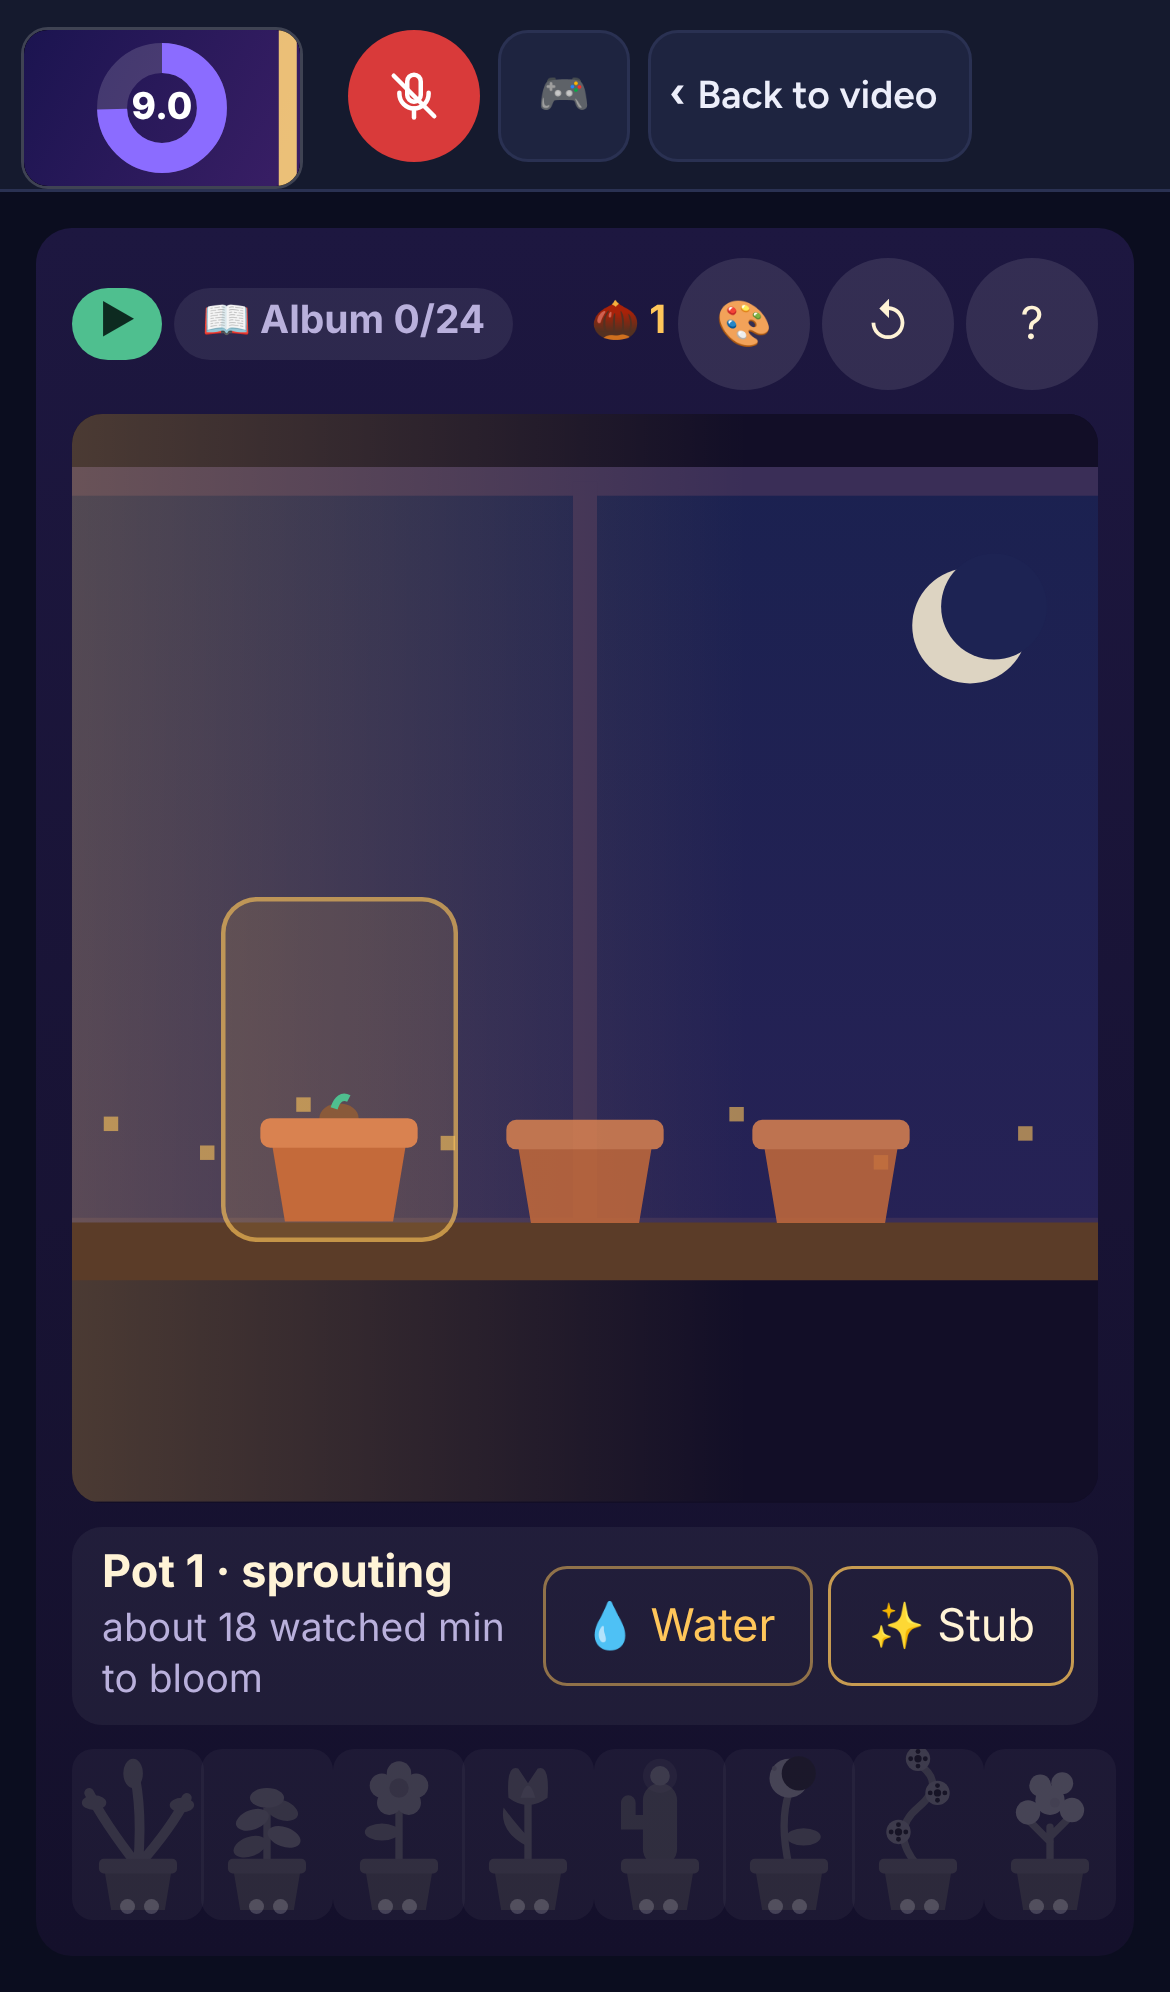
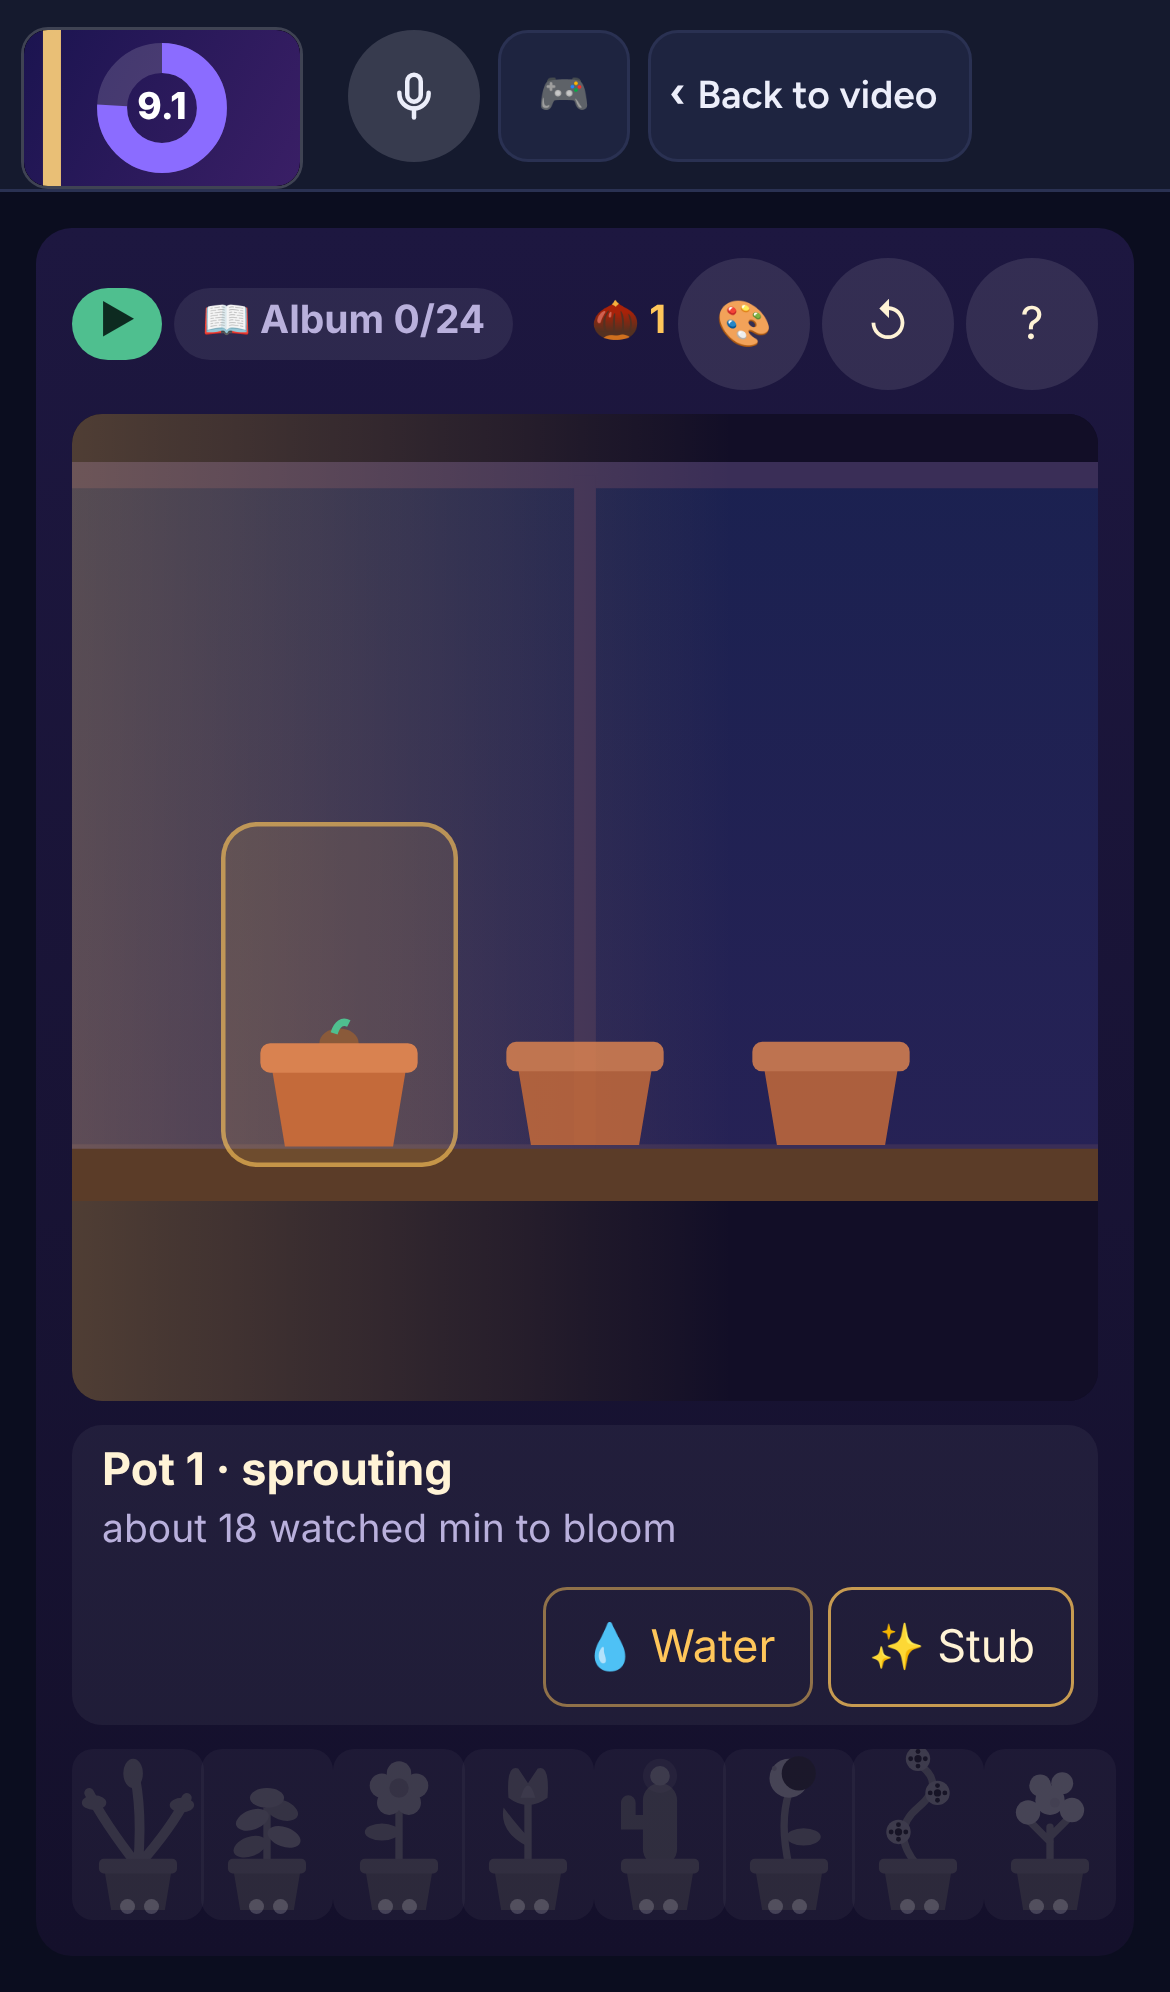
Five Frames: tiles centred, a wider Enter key, the result row wraps; Garden's action row wraps (QA2 6, 8)
Claude-Session: https://claude.ai/code/session_015Fyri77kKC6VRbzJXM2gGZ

diff --git a/apps/web/src/games/five-frames.css b/apps/web/src/games/five-frames.css
@@ -42,7 +42,8 @@
 .ff-board:focus-visible, .ff-board:focus { box-shadow: 0 0 0 1.5px rgba(255, 198, 90, 0.55); }
 /* One guess = one ticket: a stub, a dashed tear line with two notches, five letter cells. */
 .ff-row {
-  position: relative; display: grid; grid-template-columns: 30px 1fr; height: 43px; border-radius: 8px;
+  /* QA2 (8): an empty column on the right as wide as the stub, so the five cells sit in the ticket's middle. */
+  position: relative; display: grid; grid-template-columns: 30px 1fr 30px; height: 43px; border-radius: 8px;
   background: rgba(255, 255, 255, 0.06);
 }
 .ff-row::before, .ff-row::after {
@@ -84,7 +85,11 @@
 .ff-row.hop .ff-cell { animation: ff-hop 0.12s ease-out both; animation-delay: calc(var(--i, 0) * 60ms); }
 @keyframes ff-hop { 50% { transform: translateY(-6px); } }
 
-.ff-result { flex: none; display: flex; align-items: center; gap: 8px; min-height: 30px; }
+.ff-result { flex: none; display: flex; align-items: center; gap: 4px 8px; min-height: 30px; }
+/* QA2: in the narrow window beside the video the Copy button goes under the result instead of squeezing "2/7 denemede
+   buldun! 🎉" onto two lines. */
+.ff-result { flex-wrap: wrap; justify-content: flex-end; }
+.ff-result > .ff-message { flex: 1 1 210px; }
 .ff-message { flex: 1; margin: 0; font-size: 15px; font-weight: 700; color: var(--ff-cream); line-height: 1.25; }
 .ff-message:empty { display: none; }
 .ff-message.flash { color: var(--ff-gold); }
@@ -112,8 +117,10 @@
 .ff-key.hit { background: rgba(255, 198, 90, 0.12); box-shadow: inset 0 0 0 2.5px var(--ff-mark); color: var(--ff-cream); }
 .ff-key.near { background: transparent; outline: 2px dashed var(--ff-mark); outline-offset: -3px; color: var(--ff-mark); }
 .ff-key.miss { background: transparent; color: var(--ff-miss-text); text-decoration: line-through; }
-.ff-key.back { grid-column: span 2; font-size: 15px; font-weight: 800; }
-.ff-key.enter { grid-column: span 2; background: var(--ff-gold); color: var(--ff-ink); font-weight: 800; font-size: 15px; }
+/* QA2 (6): Enter takes three columns, ⌫ one (an icon), so "Tamam" no longer fills its key edge to edge. */
+.ff-key.back { grid-column: span 1; font-size: 15px; font-weight: 800; }
+.ff-key.enter { grid-column: span 3; background: var(--ff-gold); color: var(--ff-ink); font-weight: 800; font-size: 15px; padding-inline: 6px; }
+
 @media (prefers-reduced-motion: reduce) {
   .ff-row.shake, .ff-cell.pop, .ff-cell.turn, .ff-row.hop .ff-cell { animation: none; }
   .ff-cell, .ff-key { transition: background-color 0.15s, color 0.15s; }

diff --git a/apps/web/src/games/garden.css b/apps/web/src/games/garden.css
@@ -71,7 +71,10 @@
   display: flex; align-items: center; gap: 10px; min-height: 64px; box-sizing: border-box; padding: 6px 8px 6px 10px; border-radius: 10px;
   background: rgba(255, 255, 255, 0.05);
 }
-.wg-action-words { flex: 1; display: flex; flex-direction: column; gap: 2px; min-width: 0; }
+/* QA2 (6): in a narrow window the buttons go under the words instead of cutting them to "about 18 watched…". */
+.wg-action { flex-wrap: wrap; }
+.wg-action-words { flex: 1 1 150px; display: flex; flex-direction: column; gap: 2px; min-width: 0; }
+.wg-action-buttons { margin-left: auto; }
 .wg-action-title { font-size: 15px; font-weight: 700; line-height: 1.25; }
 .wg-action-text { font-size: 13px; line-height: 1.3; color: var(--wg-muted); display: -webkit-box; -webkit-line-clamp: 2; -webkit-box-orient: vertical; overflow: hidden; }
 .wg-action-buttons { display: flex; gap: 5px; flex-wrap: nowrap; }
